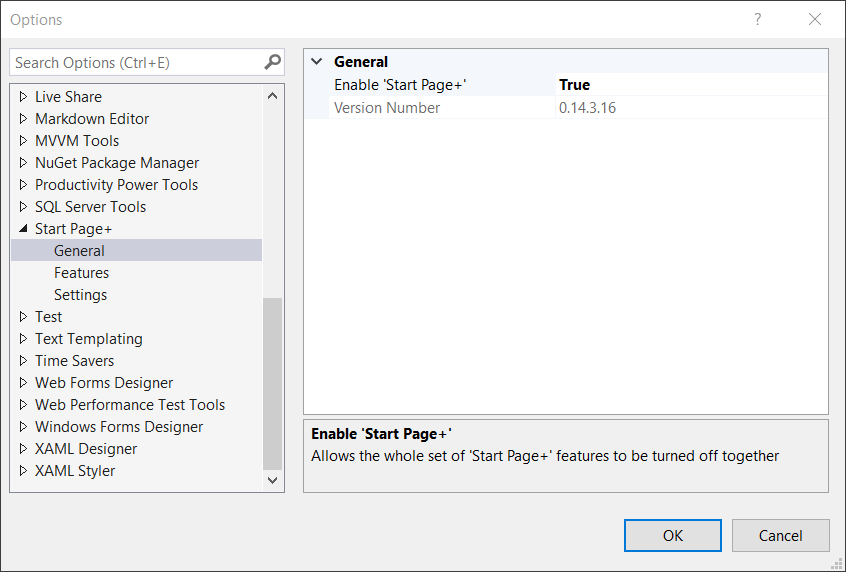
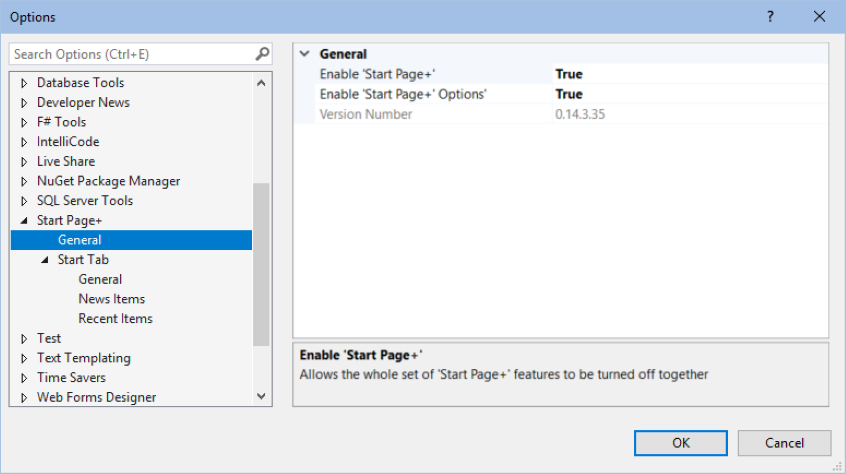
Update documentation source files
#1242 #1258

diff --git a/docs-source/features.md b/docs-source/features.md
@@ -16,7 +16,7 @@ as you type.
 
 Click the **X** in the filter box to start again, or to go back to the full list of items.
 
-### Collapse/Expand Timeframes
+### Collapsible Timeframes
 
 Each timeframe group can be collapsed or expanded by clicking anywhere on the group name.
 This can come in handy if you want to view items that are currently not being displayed
@@ -44,6 +44,11 @@ path to the Windows clipboard. You can then paste it anywhere you need to.
 When you select the number of items to display, you'll need to click the *Refresh* button to see
 the change.
 It's also a quick way to expand all of the timeframe groups at once.
+
+### Settings
+
+Clicking on the *Settings* button will open the *Recent Items* settings page in the
+Tools | Options | Start Page+ dialog without having to navigate through teh dropdowns.
 
 ## Start Actions
 
@@ -76,7 +81,7 @@ A quick way to get to the *New Project* dialog without having to use `File` | `N
 Any time you need to restart Visual Studio you can do it from the *Start Page+* window in just one click.
 No need to close and re-open Visual Studio manually.
 
-### Restart Visual Studio As Administrator
+### Restart As Administrator
 
 You can also restart Visual Studio as Administrator without having to you through the hassle of finding
 and right-clcking a Visual Studio shortcut etc.
@@ -111,6 +116,26 @@ start page.
 
 ![Developer News](assets/images/developer-news.png)
 
+### Set Items Feed Url
+
+By default the feed url is set to the url of the original *Developer News* that used to be in Visual Studio 2017.
+Microsoft is currently still maintaining that feed, but could stop doing so at any time.
+You could choose to use the *Visual Studio Blog* feed url instead if you wanted.
+
+In the past the two feeds have displayed a different set of posts,
+with Visual Studio Blog having more posts that the Developer News feed.
+But it seems that may currently have the same items.
+
+The *Visual Studio Blog* feed url is `https://devblogs.microsoft.com/visualstudio/feed`.
+
+### Set Items to Display
+
+You can choose the number of items that are displayed in the list.
+
+There are only 10 items in the orginal feed, and Microsoft replaces older posts with new ones.
+If you set a feed url to something that has a lerger number of items you might want to limit
+how many are downloaded and displayed.
+
 ### Open Links in VS or Browser
 
 By default the items open right in VS itself, rather than switching to the default browser.
@@ -121,17 +146,12 @@ to switch to a different application, and then back again to Visual Studio.
 However, for those people who prefer links to be opened in their default browser,
 there's an option to change Start Page+'s behavior to do just that.
 
-### News Items to Display
-
-You can decide how many news items you want displayed in your *Developer News* list,
-by clicking on the *Options* button, then clicking on the *Settings* page.
-
-## Refresh
+### Refresh
 
 There is currently no auto-refresh for *Developer News*, so you'll have to click *Refresh* to
 check if you have the latest available news items from Microsoft.
 
-ALso, when you select the number of items to display, you'll need to click the *Refresh* button
+Also, when you select the number of items to display, you'll need to click the *Refresh* button
 to see the change.
 
 ## General Options
@@ -140,82 +160,31 @@ to see the change.
 
 ### Enable 'Start Page+'
 
-This setting allows _Start Page+_ to be *turned off*, without having to uninstall the _Start Page+_ extension,
-which would require you to exit **all** instances of Visual Studio, wait while the _VSIX installer_ does its thing,
+This setting allows _Start Page+_ to be disabled if you need to,
+without having to uninstall the _Start Page+_ extension, which would require you to exit
+**all** instances of Visual Studio, wait while the _VSIX installer_ does its thing,
 then open Visual Studio again.
 
-If you're worried about the _Start Page+_ extension still using resources, once you enable this setting,
-the _View_ | _Start Page+_ and the _Tools_ | _Start Page+ Options_ menu items will no longer be available,
-so the extension will have no need to be loaded.
+### Enable 'Start Page+ Options'
 
-However, instances of any tool window are never _destroyed_ when they're _closed_, so until you close Visual Studio there will
-be some remaining resources being used. But the next time you start Visual Studio, there'll be no way to open
-the _Start Page+_ window, so the extension will not need to be loaded.
+By default, a 'Start Page+ Options' command is added to the `Tools` | `Options` menu.
+This setting lets you choose to not have the menu item added.
+
+The default value is `true`.
 
 ### Version Number
 
 This setting simply displays the version number of _Start Page+_ that's currently installed.
 
-## Feature Options
+## Start Tab Options
 
-![Feature Options](assets/images/options-features.png)
-
-### Enable 'Open Links in VS'
-
-When this setting is set to `true`, any clicked item that opens a web page will be opened in a browser window
-**inside** of Visual Studio.
-
-When set to `false`, clicked items that open a web page will be opened in your default browser.
-
-The default value is `true`.
-
-### Enable 'Start Page+ Options'
-
-When this setting is set to `true` a 'Start Page+ Options' command is added to the `Tools` | `Options` menu.
-
-The default value is `true`.
-
-## Setting Options
-
-![Feature Options](assets/images/options-settings.png)
-
-### Developer News Url
-
-This setting allows you to change the feed url for *Developer News* to any RSS feed that you choose.
-
-Microsoft is currently still maintaining the original feed, but could stop doing that at any time.
-You could choose to use the *Visual Studio Blog* feed url instead if you wanted.
-
-In the past the two feeds have displayed a different set of posts,
-with Visual Studio Blog having more posts that the Developer News feed.
-But it seems that may currently have the same items.
-The *Visual Studio Blog* feed url is `https://devblogs.microsoft.com/visualstudio/feed/`.
-
-The default value is `https://vsstartpage.blob.core.windows.net/news/vs`.
+![Start Tab Options](assets/images/options-start-tab.png)
 
 ### Max Width
 
 This setting will allow you to make the contents of the _Start Page+_ window wider or narrower
 
 The default value is `1175`.
-
-### News Items to Display
-
-This setting will allow you to determine how many items are displayed in the *Developer News* list.
-
-The default value is `10`.
-
-### Recent Items to Display
-
-This setting will allow you to determine how many items are displayed in the *Recent Item* list.
-
-The default value is `50`.
-
-### Show Recent Item Extensions
-
-This setting allows to hide a project/solution's extension (.csproj, .sln) in the *Recent Items* list.
-
-The default value is `false`;
 
 ### Show Start Tab Title
 
@@ -228,3 +197,44 @@ The default value is `true`.
 This setting will allow you to change the *Start* tab title.
 
 The default value is `What would you like to do today?`.
+
+## Recent Items Options
+
+![Recent Items Options](assets/images/options-recent-items.png)
+
+### Items to Display
+
+This setting will allow you to determine how many items are displayed in the *Recent Item* list.
+
+The default value is `50`.
+
+### Show File Extensions
+
+This setting allows to hide a project/solution's extension (.csproj, .sln) in the *Recent Items* list.
+
+The default value is `false`;
+
+## Developer News Options
+
+![Developer News Options](assets/images/options-developer-news.png)
+
+### Items to Display
+
+This setting will allow you to determine how many items are displayed in the *Developer News* list.
+
+The default value is `10`.
+
+### Items Feed Url
+
+This setting allows you to change the feed url for *Developer News* to any RSS feed that you choose.
+
+The default value is `https://vsstartpage.blob.core.windows.net/news/vs`.
+
+### Open Links in VS
+
+When this setting is set to `true`, any clicked item that opens a web page will be opened in a browser window
+**inside** of Visual Studio.
+
+When set to `false`, clicked items that open a web page will be opened in your default browser.
+
+The default value is `true`.

diff --git a/docs-source/changelog.md b/docs-source/changelog.md
@@ -12,29 +12,32 @@ page on the [Start Page+][start-page-plus-url] website.
   - a **Restart Visual Studio** item to *Get Started* column [(GitHub Issue #20)][github-issue-20]
     - also a Restart Visual Studio **_as Administrator_** item
   - the ability to **pin**/**unpin** items in the *Recent Items* list [(GitHub Issue #21)][github-issue-21]
-  - a **Max Width** setting [(GitHub Issue #32)][github-issue-32]
+  - a **Max Width** option [(GitHub Issue #32)][github-issue-32]
     - replaces fixed width of `1175`
   - the ability to **remove** items from the *Recent Items* list [(GitHub Issue #35)][github-issue-35]
   - the ability to **copy** an item's path to the Windows clipboard
   - the ability to **collapse**/**expand** the group headings in the *Recent Items* list
-  - a _functional_ **Pin** button to *Recent Items*
+  - **Pin**/**Unpin** buttons to *Recent Items*
     - previous pinned button did nothing
-  - an **Unpin** button to *Recent Items*
-  - a **Remove** button to *Recent Items* that only appears when the mouse hovers over an item
-  - an **auto-refresh** to *Recent Items* after an item is clicked
+  - a **Remove** button to *Recent Items* (only appears when the mouse hovers over an item)
+  - an **auto-refresh** to *Recent Items* after an item is clicked (updates the date/group it falls into)
+  - new options pages (**Start Tab**, **Recent Items**, **Developer News**)
   - a **Changelog** button to the left of the version number in the *Get Started* column
     - opens the website's changelog page
   - an **Options** button to the right of the version number in the *Get Started* column
-    - opens `Tools` | `Options` | `Start Page+` | `General`
+    - opens `Tools` | `Options` | `Start Page+` | `General` in one click
+  - a **Settings** button to the right of the *Refresh* button in the *Recent Items* column
+    - opens `Tools` | `Options` | `Start Page+` | `Start Tab` | `Recent Items` in one click
+  - a **Settings** button to the right of the *Refresh* button in the *Developer News* column
+    - opens `Tools` | `Options` | `Start Page+` | `Start Tab` | `Developer News` in one click
   - a **Start Page+ Options** menu item to open `Tools` | `Options` | `Start Page+` | `General`
     - found in `Tools` | `Options`
-  - new options pages (**Features**, **Settings**)
-  - a **Recent Items to Display** setting
-  - a **Hide Extensions** setting to hide a project/solution's extension in *Recent Items* list
-  - a setting to **display**, or **not display**, the *Start* tab's title
-  - a setting that allows you to **change** the *Start* tab's title text
-  - a **News Items to Display** setting
-  - a **Developer News Url** setting
+  - an **Items to Display** option for *Recent Items*
+  - a **Show Extensions** option to show or hide project/solution extensions in *Recent Items* list
+  - a **Show Start Tab Title** option
+  - a **Start Tab Title Text** option that allows you to change the *Start* tab's title text
+  - an **Items to Display** option for *Developer News*
+  - an **Items Feed Url** option for *Developer News*
 
 [github-issue-20]: https://github.com/luminous-software/start-page-plus/issues/20
 [github-issue-21]: https://github.com/luminous-software/start-page-plus/issues/21
